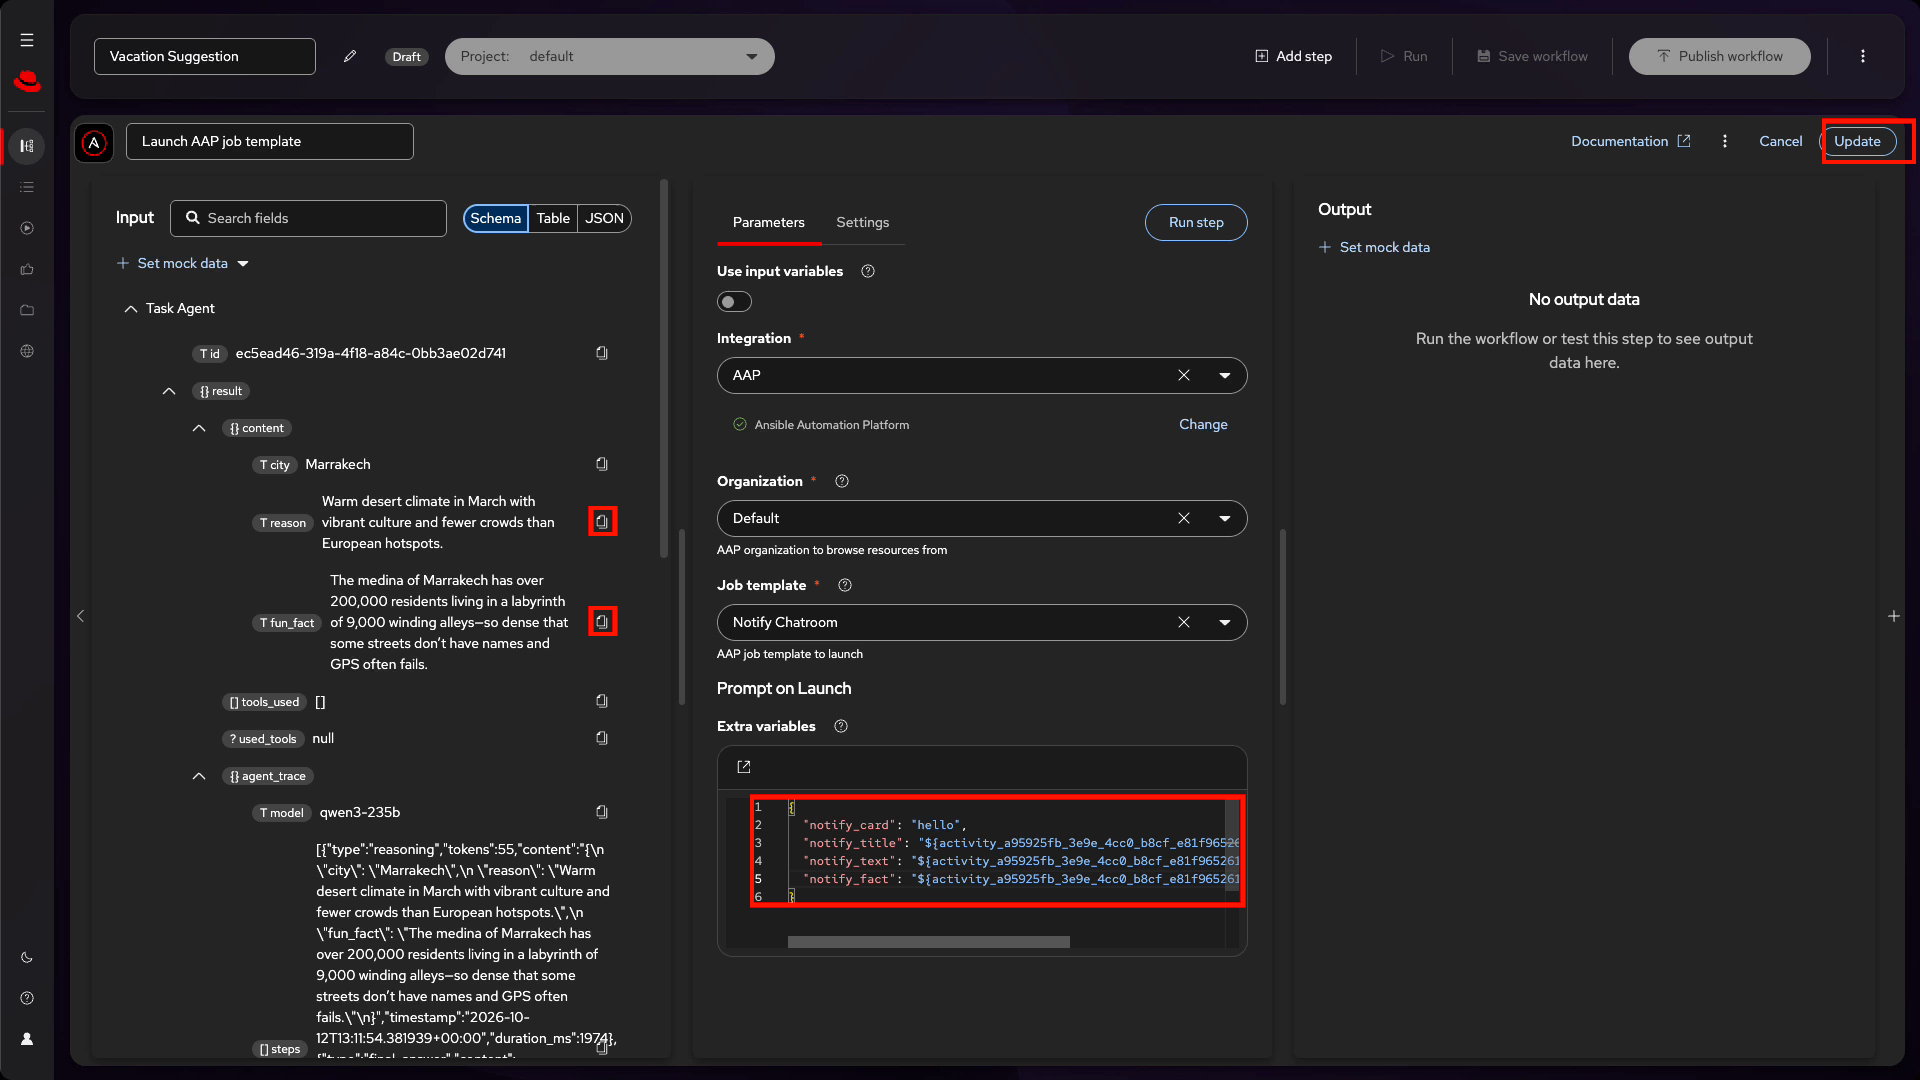
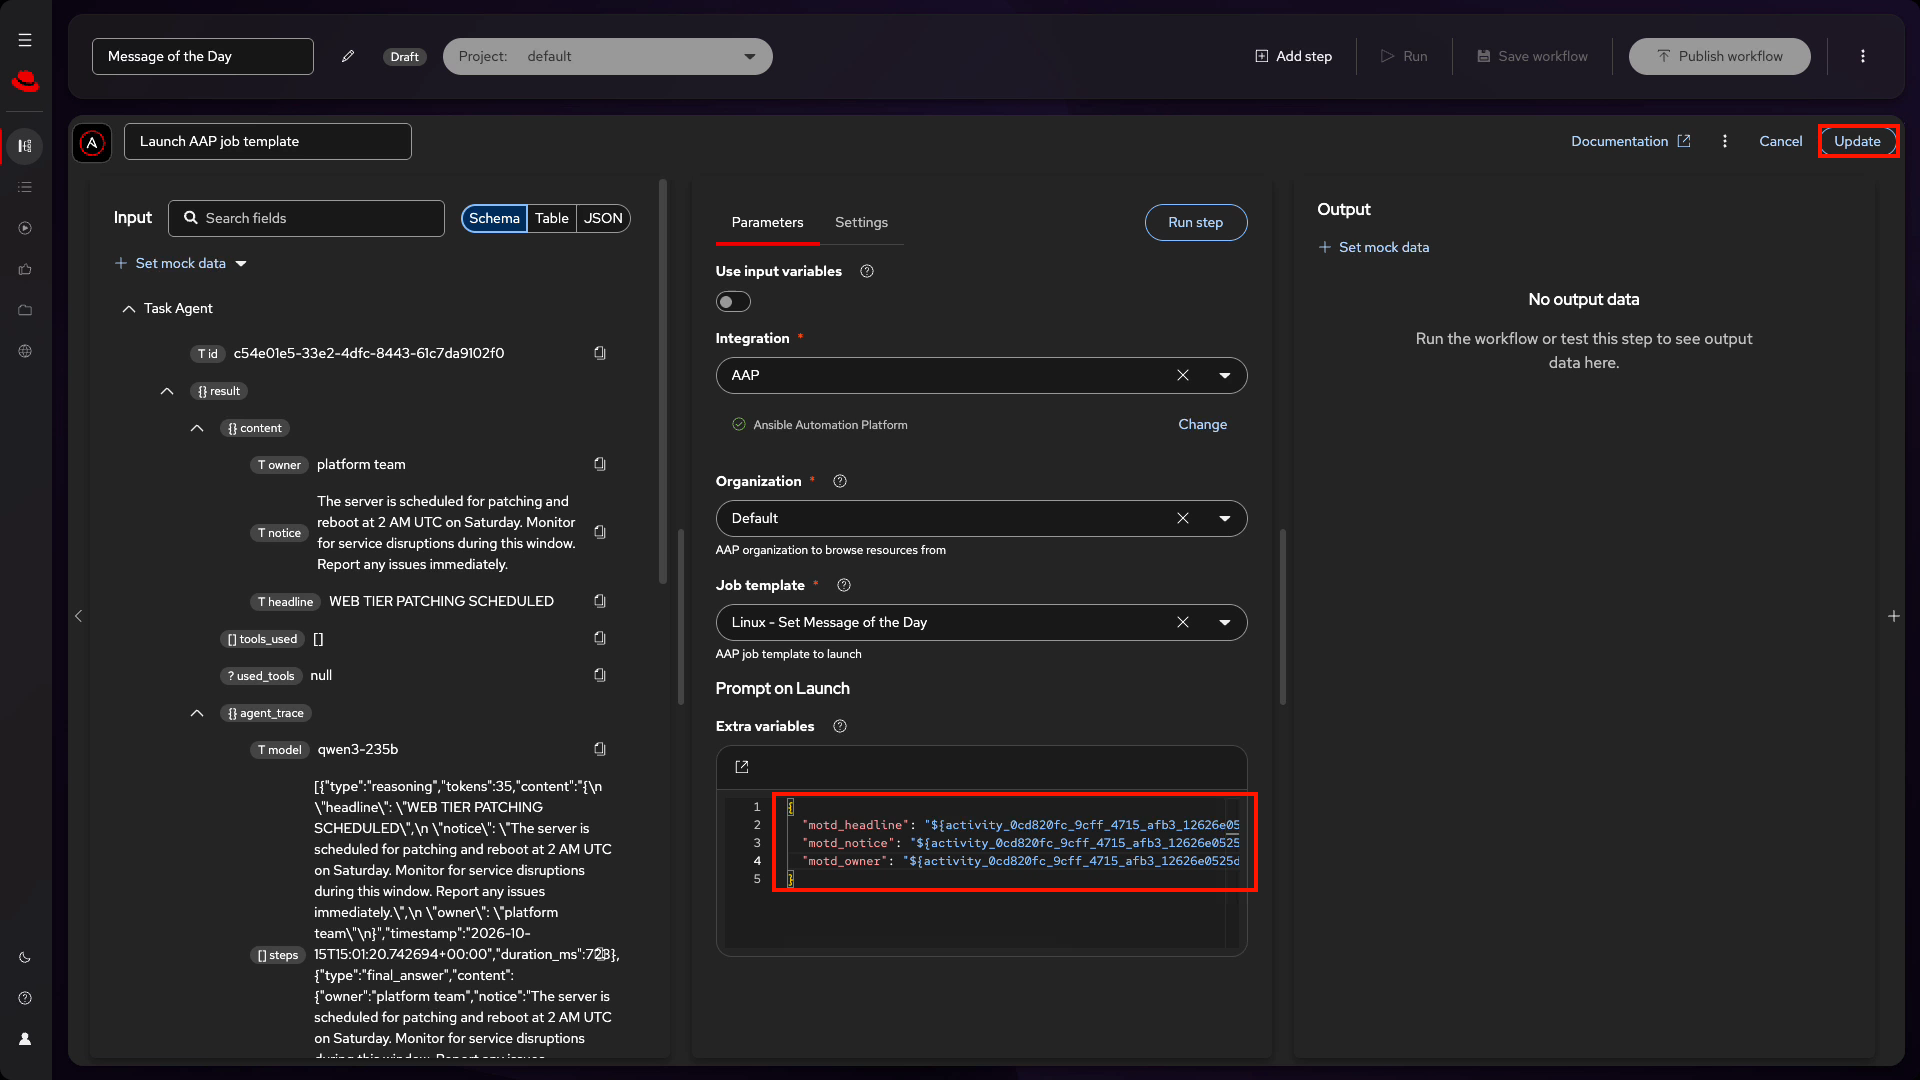
updating module 3

diff --git a/automation/ansible/roles/ocp4_workload_automation_orchestrator_config/tests/test_ao_workflow.py b/automation/ansible/roles/ocp4_workload_automation_orchestrator_config/tests/test_ao_workflow.py
@@ -804,11 +804,11 @@ class TestStudentGapsFile(unittest.TestCase):
         # wired, a finished workflow handed over as an exercise, and
         # nothing would say so.
         #
-        # Except one: Hello World - Message of the Day is built from an
-        # empty canvas in module 03 and has no student copy at all, so
-        # it carries `student_copy: false` and must NOT appear here.
-        # The two sets are compared exactly, in both directions, so
-        # neither a missing gap nor an orphaned one passes.
+        # Except one: Message of the Day is built from an empty canvas
+        # in module 03 and has no student copy at all, so it carries
+        # `student_copy: false` and must NOT appear here. The two sets
+        # are compared exactly, in both directions, so neither a
+        # missing gap nor an orphaned one passes.
         path = os.path.join(ROLE_DIR, "defaults", "main.yml")
         with open(path) as handle:
             defaults = yaml.safe_load(handle)
@@ -1149,7 +1149,7 @@ class TestWireMessageOfTheDay(unittest.TestCase):
     def setUp(self):
         self.definition = ao_prepare_definition(
             load_workflow("message-of-the-day.json"),
-            "Hello World - Message of the Day",
+            "Message of the Day",
         )
         self.bindings = load_bindings("message_of_the_day")
         self.resolved = fake_resolved(

diff --git a/publishing-house/spec/module-03-motd-plan.md b/publishing-house/spec/module-03-motd-plan.md
@@ -301,9 +301,38 @@ node1, over that host's own gathered facts. What the live run taught:
    automation files, the page filename, and the string edits listed
    above.
 6. Rewrite the module page prose against the real UI.
-7. Record.
-8. Cut shots, fit boxes.
-9. Build, verify figure count and that no em dashes crept in.
+7. ~~Record.~~ Done: `motd-student.mp4`, 1920x1080, 60fps, 319.5s,
+   cursor suppressed.
+8. ~~Cut shots, fit boxes.~~ Done. 26 figures: the 25 carried over
+   plus `22b-back-to-editor`, because the run view is still open after
+   the detour to the host and the student has to click back into the
+   editor before they can publish. Notes worth keeping:
+   - Figure 03 is in-frame this time. The Vacation take had no frame
+     showing the filled field row and *Create* together, so it was a
+     native screenshot; here it is at t=30. Not t=29: *Required* is
+     still unticked a second earlier and the page says to tick it.
+   - **Figure 22 is cut by hand, not by `batch`.** It is the only
+     figure showing the Showroom, whose credential panel is on the
+     left of that screen with the OpenFlake password and the LLM API
+     key both legible. `batch` can only draw boxes, so this one uses
+     `grab --redact`. The command is in `tools/module-03.shots`.
+   - The panel geometry is unchanged from the Vacation recording, so
+     most boxes were carried over rather than remeasured. Four were
+     not and had to be fixed after the first cut: 12 boxed *Task
+     Agent* instead of *AAP Execution*, 15 boxed the wrong row of the
+     job template list, 18 sat on a frame where only one of the three
+     extra vars was filled, and 21 boxed the *View job in AAP* link
+     instead of the Status column.
+   - The page said to filter the job template list by typing
+     `message`. The recording types `Linux`. Prose changed to match.
+   - Roger's review caught four more box errors after that: 04 was not
+     on the `+` handle, 08 clipped the prompt's bottom and the
+     schema's right edge, 18 was offset on both boxes, and 22 wanted
+     the terminal tab boxed as well as the banner. The *Create* and
+     *Update* button box was also too generous at `1822,119,94,45`;
+     the button is `1818,124,82,34`.
+9. ~~Build, verify figure count and no em dashes.~~ Done: 26 figures,
+   all resolving, no orphans, 0 em dashes.
 10. Merge. Safe, because `enabled: false` keeps the missing job
     template out of the preflight.
 
@@ -344,8 +373,14 @@ Blocked on repo access, which Roger will supply after phase 1.
 - **Mattermost as a second destination.** The same playbook could also
   post the rendered banner as a card. Additive, deferrable, and less
   needed now that ssh is confirmed.
-- **Workflow name in AO.** `Message of the Day` proposed.
-- **Module title.** "Your First Workflow: Message of the Day" proposed.
+- ~~**Workflow name in AO.**~~ Settled: `Message of the Day`. Roger
+  first chose `Hello World - Message of the Day`, then recorded the
+  build typing `Message of the Day`. That name is in the title bar of
+  all 25 figures, so the recording won and everything else was renamed
+  to match: the page, `defaults/main.yml`, the export, two tests and
+  the live copy in `solutions`.
+- ~~**Module title.**~~ Settled: "Your First Workflow: Message of the
+  Day".
 
 ## The job template is a merge blocker
 
